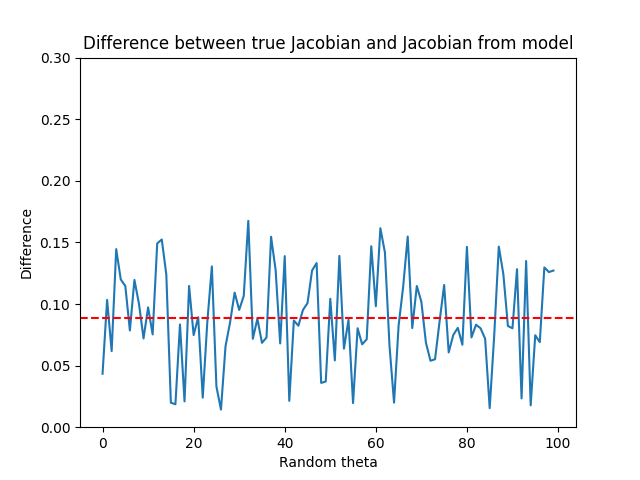
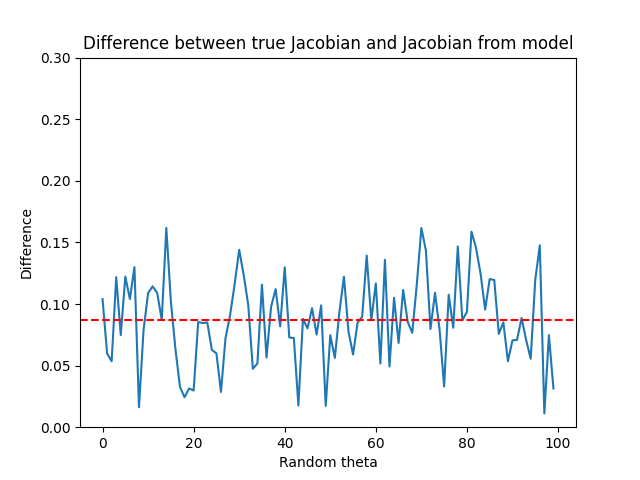
now should work

Changed region(s): [[0.125, 0.4688, 0.9062, 0.8438]]

diff --git a/src/run.py b/src/run.py
@@ -15,7 +15,7 @@ if __name__ == "__main__":
     # Globals
 
     DIM = 2
-    NJOINT = 3
+    NJOINT = 2
     IN_SINCOS = False
     OUT_ORIENTATION = False
 
@@ -137,9 +137,12 @@ if __name__ == "__main__":
 
     # ------------------------------------------------------------------------
     # Inverse Kinematics
+    
+    print("------------------------------")
+    print("Inverse Kinematics")
 
     NEWTON = False
-    NUM_IT = 500
+    NUM_IT = 1000
     STRESS_TEST = False
 
     if STRESS_TEST:
@@ -195,7 +198,6 @@ if __name__ == "__main__":
         goal_pos = pid.get_rnd_pos_in_workspace(NJOINT)
         in_theta = tf.cast(in_theta, tf.float64)
         goal_pos = tf.cast(goal_pos, tf.float64)
-        goal_pos = goal_pos / np.linalg.norm(goal_pos) * 0.1*NJOINT * np.random.random()
 
         final_theta, err, max_it_reached = inverse_kin.inverse_kinematic(model, in_theta, goal_pos,
                                                                         newton=NEWTON, num_it=NUM_IT, dbg=True)
@@ -205,7 +207,7 @@ if __name__ == "__main__":
     # PID Controller
     
     # TODO: prova a cambiare la FK e Jacobiana per tenere conto dei boundaries
-    minmax = [3.14, 3] if NJOINT == 2 else [3.14, 1.8, 1.8]
+    minmax = [3.14, 3] if NJOINT == 2 else [3.14, 1.85, 1.85]
     if any([y < x < np.pi or y < -x < np.pi for x, y in zip(final_theta, minmax)]):
         # this happens due to redundancy of the robot when not considering the orientation
         print("Position out of workspace")
@@ -273,25 +275,3 @@ if __name__ == "__main__":
 # Mean error in position: 0.014029994865092094
 # Mean error in orientation: 0.02028842137822963
 # Mean error: 0.02538335946761391
-
-
-
-# TODO: check this, in which the 3 dots where far away from each other
-
-# ------------------------------
-# Goal theta true: [-0.34784153 -0.68790793]
-# Goal pos: [ 0.1449992  -0.12011141]
-# Initial theta: [0.51671116 1.14708817]
-# Initial position: [0.05370678 0.14796942]
-# Target position: [ 0.14033133 -0.11624474]
-# Break at iteration 85
-
-# Final theta: [4.14391478 3.88674853]
-# Final position: [ 0.13993664 -0.11683822]
-# True position: [-0.07141107  0.0141709 ]
-# Target: [ 0.14033133 -0.11624474]
-
-# Initial theta: [0.51671116 1.14708817]
-# Goal theta: [-2.13927053 -2.39643678]
-# Goal pos: [ 0.14033133 -0.11624474]
-# Final theta: [-2.17000402 -2.43978244]

diff --git a/src/inverse_kin.py b/src/inverse_kin.py
@@ -41,10 +41,13 @@ def inverse_kinematic(model, in_theta, goal_pos, num_it=500, lambda_=0.1, dbg=Fa
             delta_theta = tf.reshape(delta_theta, (-1,))
 
             curr_theta.assign_add(delta_theta)
-            curr_theta.assign(tf.math.floormod(curr_theta, 2*np.pi))
+            # curr_theta.assign(tf.math.floormod(curr_theta, 2*np.pi))
+            curr_theta.assign(tf.where(curr_theta > np.pi, curr_theta - 2*np.pi, curr_theta))
+            curr_theta.assign(tf.where(curr_theta < -np.pi, curr_theta + 2*np.pi, curr_theta))
         else:
             if dbg:
                 print("Max num iteration reached")
+                print("The algorithm did not converge")
             err = tf.reduce_sum(tf.abs(jacobian.FK(model, curr_theta) - goal_pos))
             max_it_reached = 1
 
@@ -79,6 +82,7 @@ def inverse_kinematic(model, in_theta, goal_pos, num_it=500, lambda_=0.1, dbg=Fa
         else:
             if dbg:
                 print("Max num iteration reached")
+                print("The algorithm did not converge")
             err = tf.reduce_sum(tf.abs(jacobian.FK(model, curr_theta) - goal_pos))
             max_it_reached = 1
             

diff --git a/src/pid.py b/src/pid.py
@@ -57,9 +57,8 @@ def get_rnd_pos_in_workspace(NJOINT):
         print(f"Unknown environment {NJOINT}")
         sys.exit(1)
     theta = get_rnd_theta(NJOINT)
-    print("------------------------------")
-    print(f"Goal theta true: {theta}")
-    print(f"Goal pos: {jacobian.fwd_kin_true(theta)}")
+    print(f"[THT] True Goal: {theta}\n")
+    # print(f"Goal pos: {jacobian.fwd_kin_true(theta)}")
     return jacobian.fwd_kin_true(theta)
 
 
